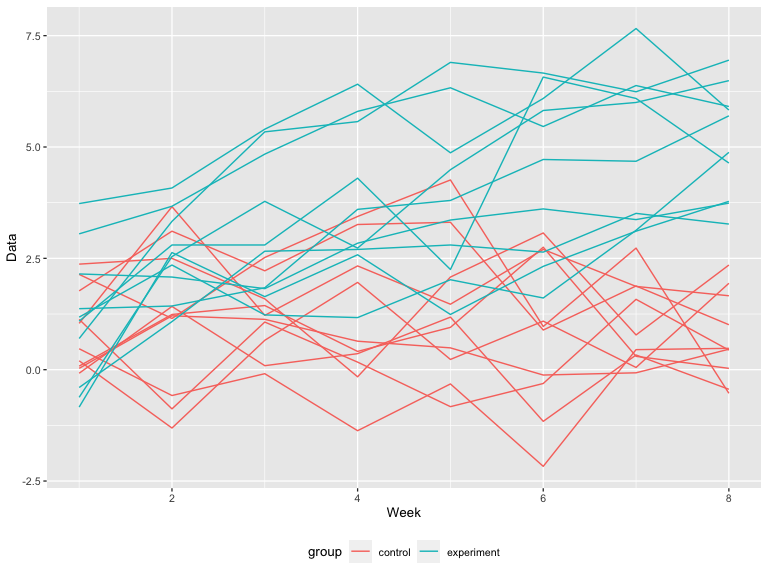
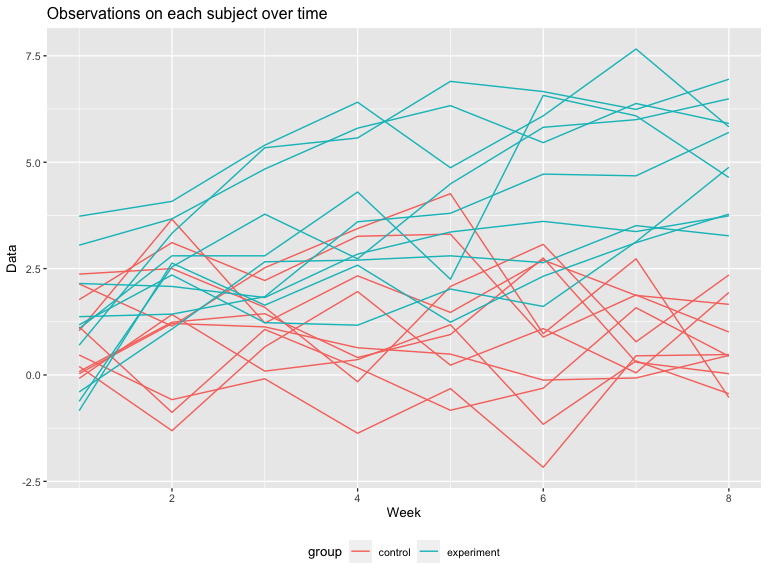
pic update title

diff --git a/hw5.md b/hw5.md
@@ -210,8 +210,7 @@ A spaghetti plot showing observations on each subject over time:
 p2_df %>% 
   ggplot(aes(x = week, y = value, group = id, color = group)) +
   geom_line() +
-  xlab("Week") +
-  ylab("Data")
+  labs(x = "Week", y = "Data", title = "Observations on each subject over time")
 ```
 
 <img src="hw5_files/figure-gfm/unnamed-chunk-8-1.png" width="90%" />
